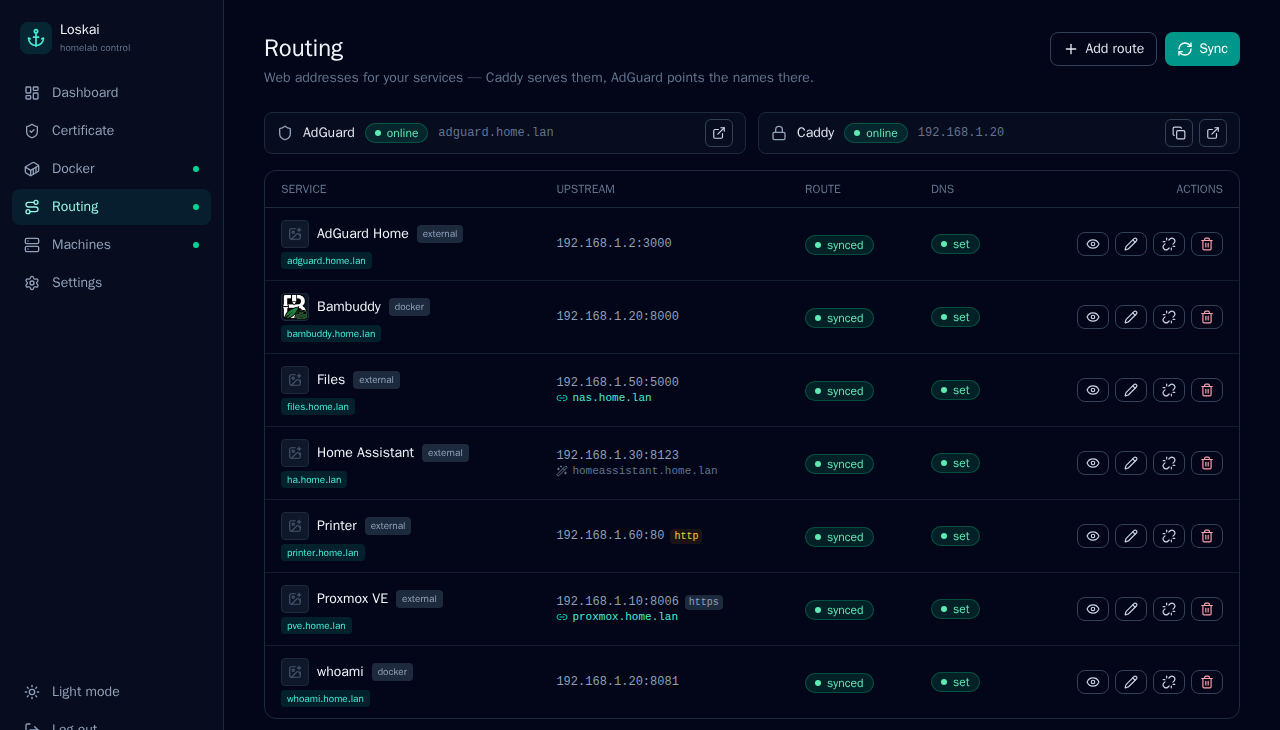
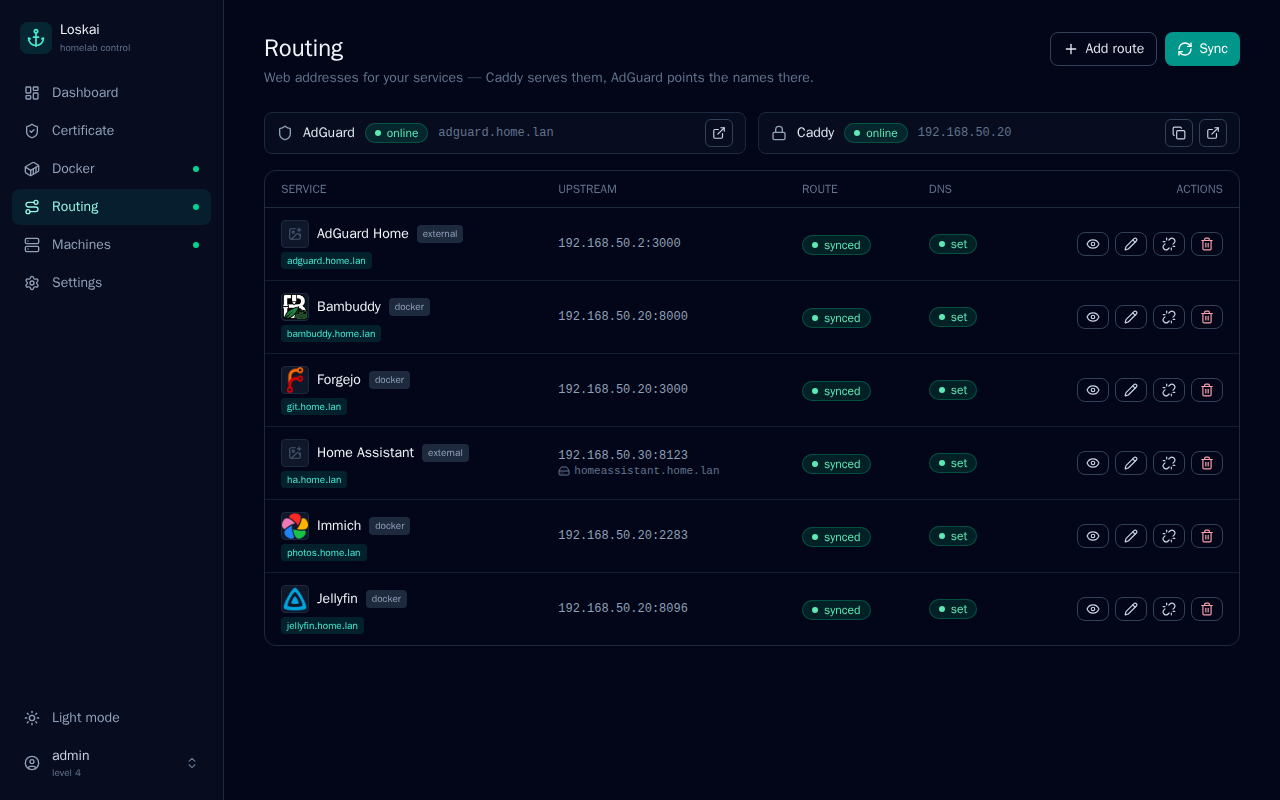
README: each feature on its animation; the guide's stills retaken
Recorded by make demo with Immich, in the made-up homelab: Routing,
Docker (Forgejo installed and routed), Machines (the overview and a
terminal), and the dashboard on a computer and a phone. The four stills
in using-loskai.md are retaken at the same paths, so the guide needs no
edit. 1.4 MB of WebP in all.

diff --git a/docs/project/TODO.md b/docs/project/TODO.md
@@ -5,7 +5,7 @@
 **Read this when** you want what is being built now, or the backlog.
 
 **Now:** **Phase 41** (below) — recipes for Forgejo and Immich, `make demo` recording the
-README's GIFs, and the README for the first public release. **Phase 40**, the sweep, is done. Since it: account
+README's animations, and the README for the first public release. **Phase 40**, the sweep, is done. Since it: account
 levels 1–4 replacing an admin and operators given tabs, a sign-in log, the logs on their own
 page (Settings › Logs), and every page laid out for a phone, checked by `make check-phone` —
 each in `HISTORY.md` or `CHANGELOG.md`. **Phases 34–38** — machines managed over SSH,
@@ -679,15 +679,14 @@ Asked 2026-11-08, before the first public release: the README's four screenshots
       version. Into `docs/images/`.
 - [x] 41g Docs: how to run it, rerun it, and add or change a flow (a contributing page);
       the docs index; CLAUDE.md's commands and code map; `make help`.
-- [ ] 41h The README's top, as decided — written: a section per feature, each on its tab's
-      screenshot until 41i puts its animation there; the layouts cut to three lines each,
-      the rest in the guides. Left for 41i: the animations, and `using-loskai.md` on the
-      new stills.
-- [ ] 41i Live, once the VM has the RAM: `make demo` with Immich — so far run whole only
-      without it (`DEMO_APPS="jellyfin bambuddy" DEMO_RECIPES=../loskai-recipes`), every flow
-      recorded and converted; look over every animation, then commit them with the README
-      and `using-loskai.md` pointing at them. The recipes must be on GitHub first (the
-      default source), or pass `DEMO_RECIPES`.
+- [x] 41h The README's top, as decided: a section per feature, each on its animation; the
+      layouts cut to three lines each, the rest in the guides.
+- [x] 41i Live, 2026-11-10 on 8 GB: `make demo` with Immich (`DEMO_RECIPES=../loskai-recipes`
+      — GitHub's mirror wasn't synced yet), every flow recorded and looked over; the
+      animations in the README, the new stills in `using-loskai.md` at the same paths. The
+      first run with Immich found the demo's Docker host had no `/etc/localtime`, which
+      Immich and Forgejo mount — given it. Still to see: the WebPs playing on GitHub's
+      README once pushed.
 
 ---
 

diff --git a/README.md b/README.md
@@ -13,27 +13,28 @@ module being healthy.
 `jellyfin.home.lan` instead of `192.168.10.20:8096`, over HTTPS. One step sets both the
 Caddy route and the AdGuard DNS entry.
 
-![Routing: a container gets its HTTPS name in one step](docs/images/routing.png)
+![Routing: a container gets its HTTPS name in one step](docs/images/demo-routing.webp)
 
 ### Apps from recipes
 
 Docker, grouped by stack — start, stop, update, edit, and install apps from recipes, routed
 from the same dialog.
 
-![Docker: an app installed from its recipe](docs/images/docker.png)
+![Docker: an app installed from its recipe](docs/images/demo-docker.webp)
 
 ### Your machines by name
 
 Routes on a machine follow it when its address changes. Over SSH: what runs there, its
 updates and tools, and a terminal in the browser.
 
-![Machines: a machine's overview and a terminal on it](docs/images/machines.png)
+![Machines: a machine's overview and a terminal on it](docs/images/demo-machines.webp)
 
 ### A dashboard for everyone
 
 Every service as a launcher card, usable without logging in — on a computer or a phone.
 
-![The dashboard](docs/images/dashboard.png)
+![The dashboard on a computer](docs/images/demo-dashboard.webp)
+![The dashboard on a phone](docs/images/demo-dashboard-phone.webp)
 
 What each tab does: [Using Loskai](docs/guides/using-loskai.md).
 
